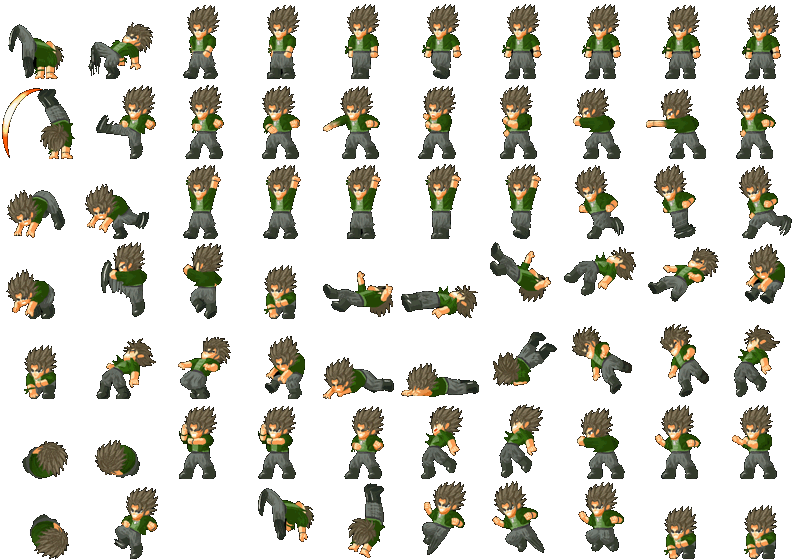
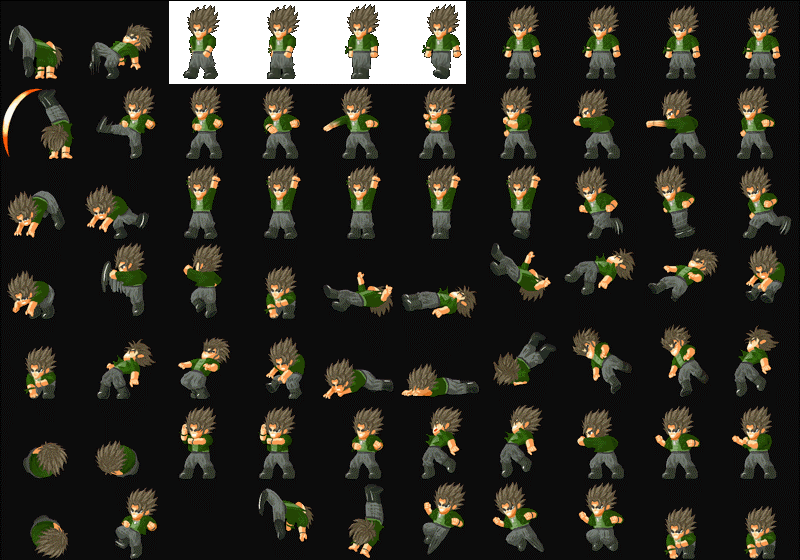
added animation to the character and changed its appearance

diff --git a/tmpSFML/main.cpp b/tmpSFML/main.cpp
@@ -12,7 +12,8 @@ int main()
     shape.setFillColor(Color::Magenta);
 
     Texture t;
-    t.loadFromFile("2.png");
+    t.loadFromFile("3.png");
+    float f = 2;
         Sprite s;
         s.setTexture(t);
         s.setTextureRect(IntRect(740,0,800,85));
@@ -26,16 +27,25 @@ int main()
             if (event.type == Event::Closed)
                 window.close();
         }
-        if (Keyboard::isKeyPressed(Keyboard::Left)) {
+        if (Keyboard::isKeyPressed(Keyboard::A)) {
             s.move(-0.03, 0);
+            f += 0.0010;
+            if (f > 6)f -= 4;
+
+            s.setTextureRect(IntRect(80 * int(f), 0, 85, 85));
         }
-        if (Keyboard::isKeyPressed(Keyboard::Right)) {
+        if (Keyboard::isKeyPressed(Keyboard::D)) {
             s.move(0.03, 0);
+            f += 0.0010;
+            if (f > 6)f -= 4;
+           
+            s.setTextureRect(IntRect(80*int(f), 0, 85, 85));
+
         }
-        if (Keyboard::isKeyPressed(Keyboard::Up)) {
+        if (Keyboard::isKeyPressed(Keyboard::W)) {
             s.move(0, -0.03);
         }
-        if (Keyboard::isKeyPressed(Keyboard::Down)) {
+        if (Keyboard::isKeyPressed(Keyboard::S)) {
             s.move(0, 0.03);
         }
         window.clear(Color::Blue);
